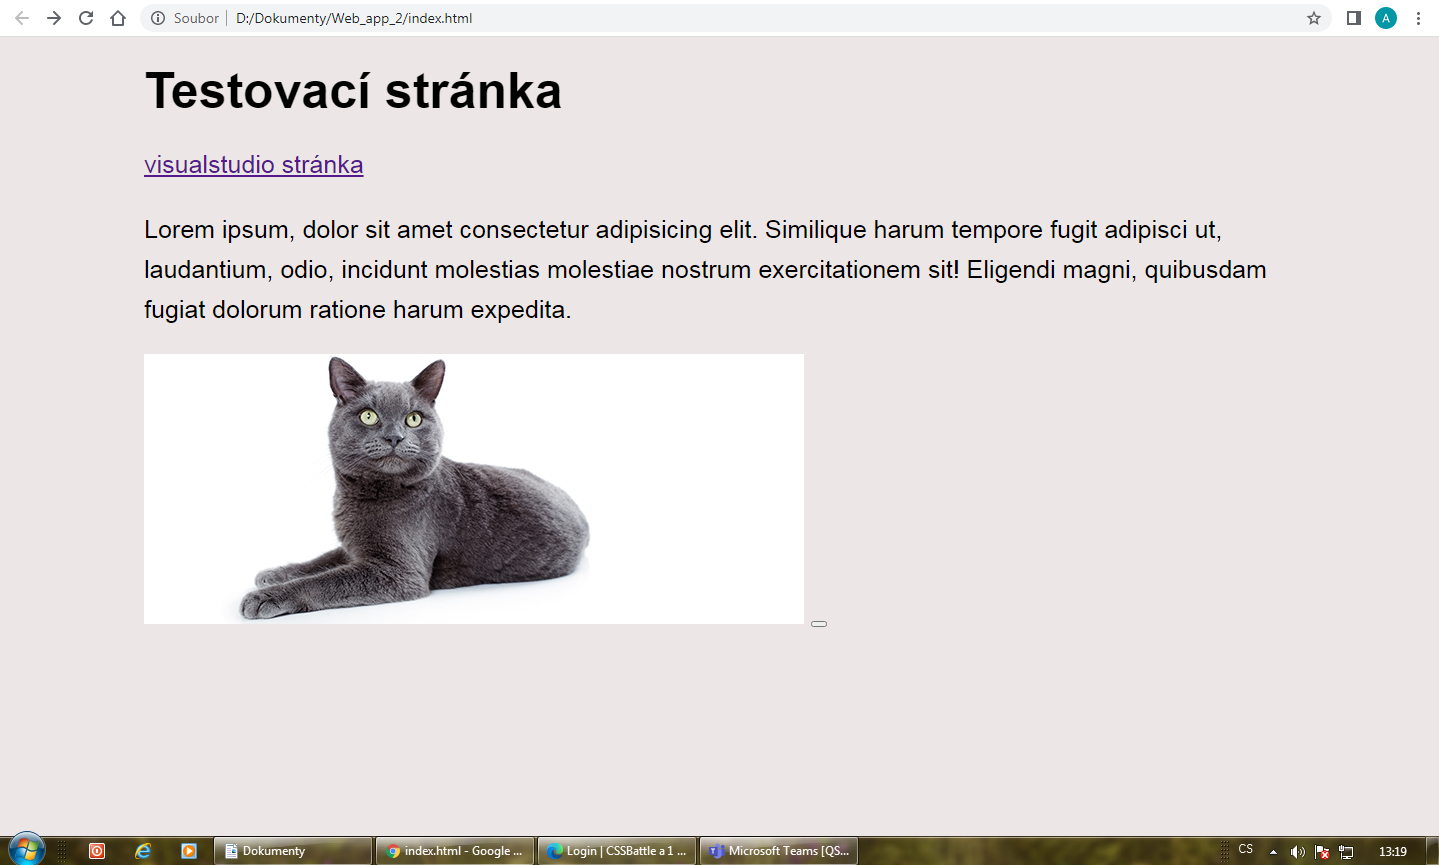
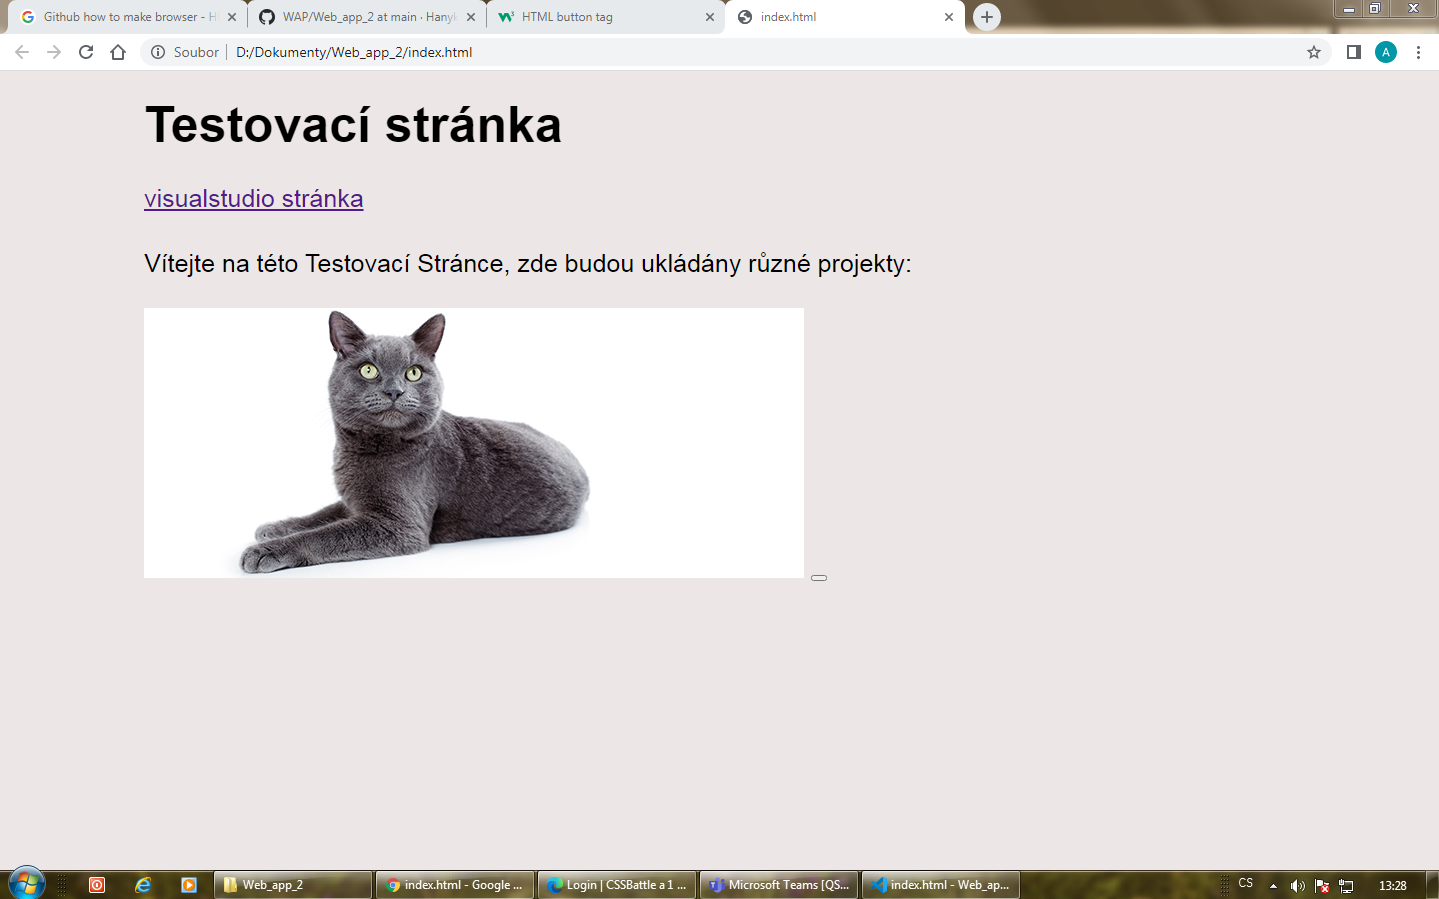
Add files via upload

diff --git a/Web_app_2/index.html b/Web_app_2/index.html
@@ -12,8 +12,7 @@
         <div class="container">
             <h1>Testovací stránka</h1>
             <a href="https://code.visualstudio.com/">visualstudio stránka</a>
-            <p> Lorem ipsum, dolor sit amet consectetur adipisicing elit. Similique harum tempore fugit adipisci ut, laudantium, odio, incidunt molestias molestiae nostrum exercitationem sit! Eligendi magni, quibusdam fugiat dolorum ratione harum expedita.
-            </p>
+            <p> Vítejte na této Testovací Stránce, zde budou ukládány různé projekty:</p>
             <img src="https://www.spokojenypes.cz/ImgP.ashx?co=/ImgGalery/img1/clanky/clanek-clovek-kocka.jpg&fd=u2&pa=1" alt="Zírající kotě" srcset="">
             <button onclick="start()"></button>
         </div>
